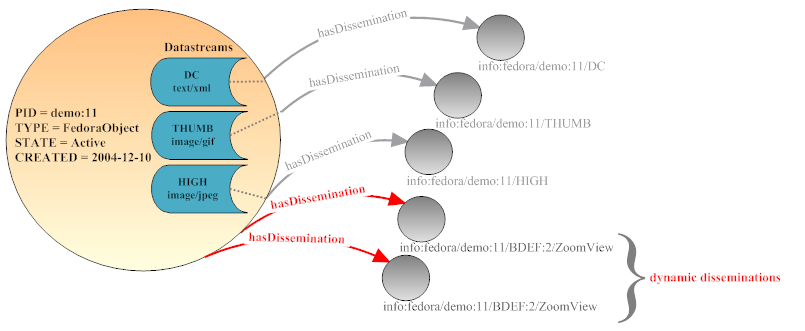
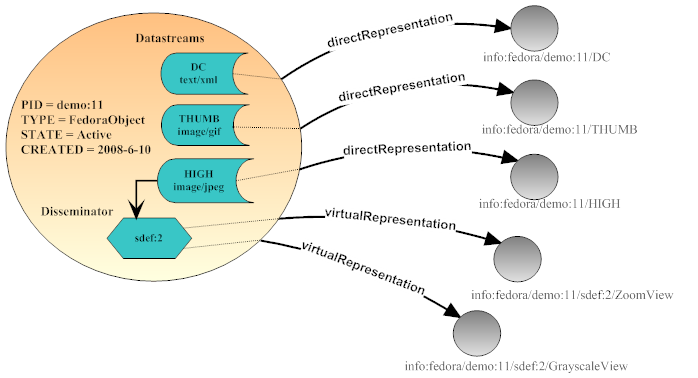
Updated the 3.0 B2 naming.

diff --git a/src/doc/userdocs/digitalobjects/objectModel.html b/src/doc/userdocs/digitalobjects/objectModel.html
@@ -126,7 +126,7 @@
 		These protocols can be used both to access the representation and to obtain associated metadata at the same access point.
 		<br />
 		<br />
-		<img src="images/access.png" width="805" height="331" alt="digital object" />
+		<img src="images/access.png" width="900" height="500" alt="digital object" />
 		<br />
 		<br />
 		By default, Fedora creates one access point for each Datastream to use for direct dissemination of its content.
@@ -195,7 +195,7 @@ of the Operation.  Some Operations use content from Datastreams (supplied by the
 additional parameters supplied by the client program or browser requesting the execution.
 <br />
 <br />
-<img src="images/bdef.png" width="383" height="295" alt="BDEF" />
+<img src="images/sdef.png" width="383" height="295" alt="BDEF" />
 <br />
 <br />
 Conceptually an Operation is called using the following form (the specifics vary with the actual Fedora interface 
@@ -248,7 +248,7 @@ implementations may need to provide the functionality at different end points.  
 may use a dynamic end point resolution mechanism to permit failover to different service providers.
 <br />
 <br />
-<img src="images/bmech.png" width="376" height="415" alt="DMECH" />
+<img src="images/sdep.png" width="376" height="415" alt="DMECH" />
 <br />
 <br />
 Since the SDep operates only within the scope of an individual repository, the operators of that repository are free 
